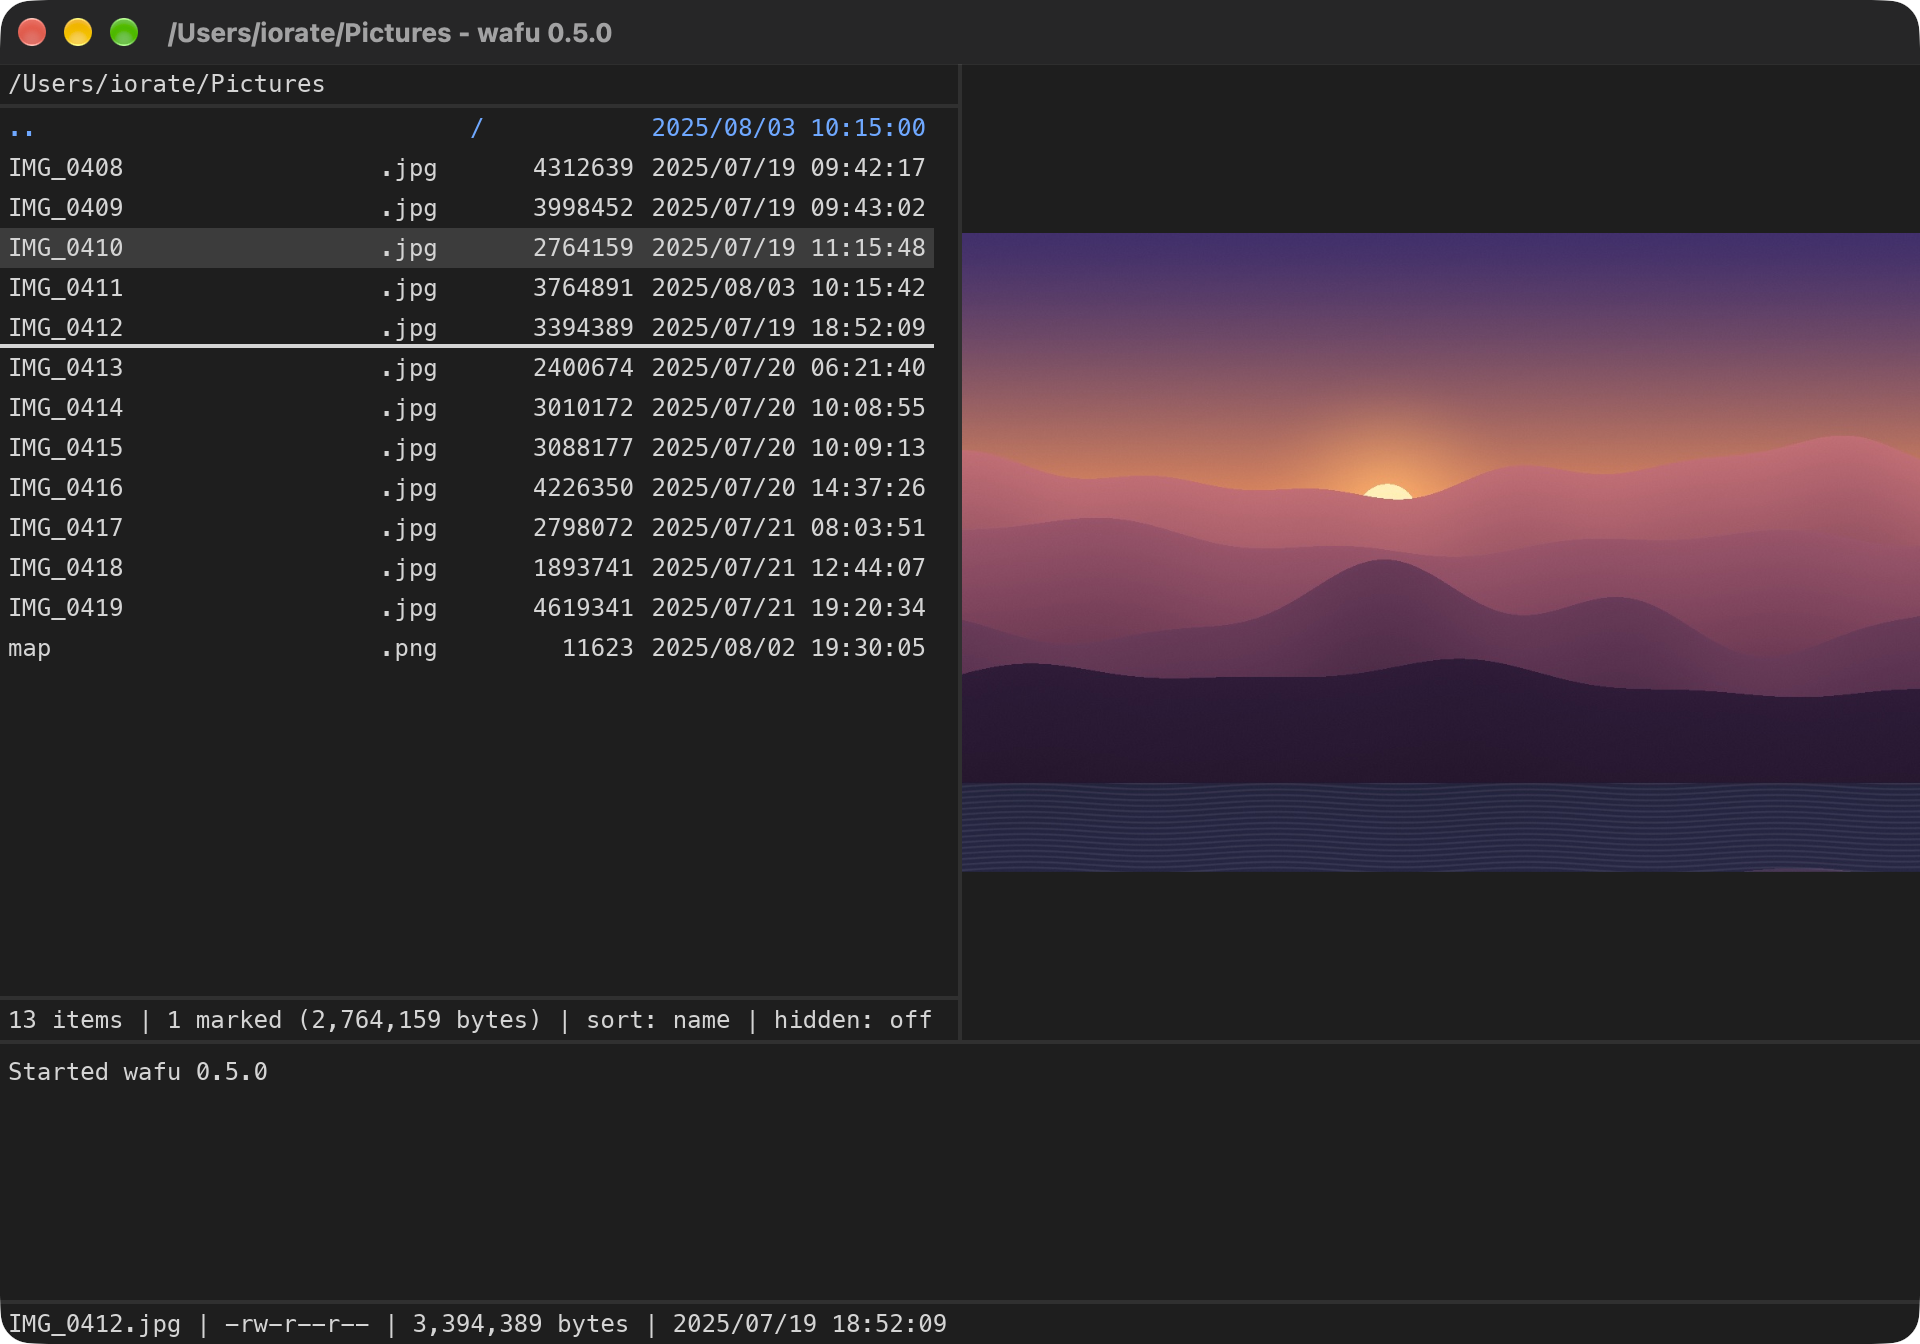
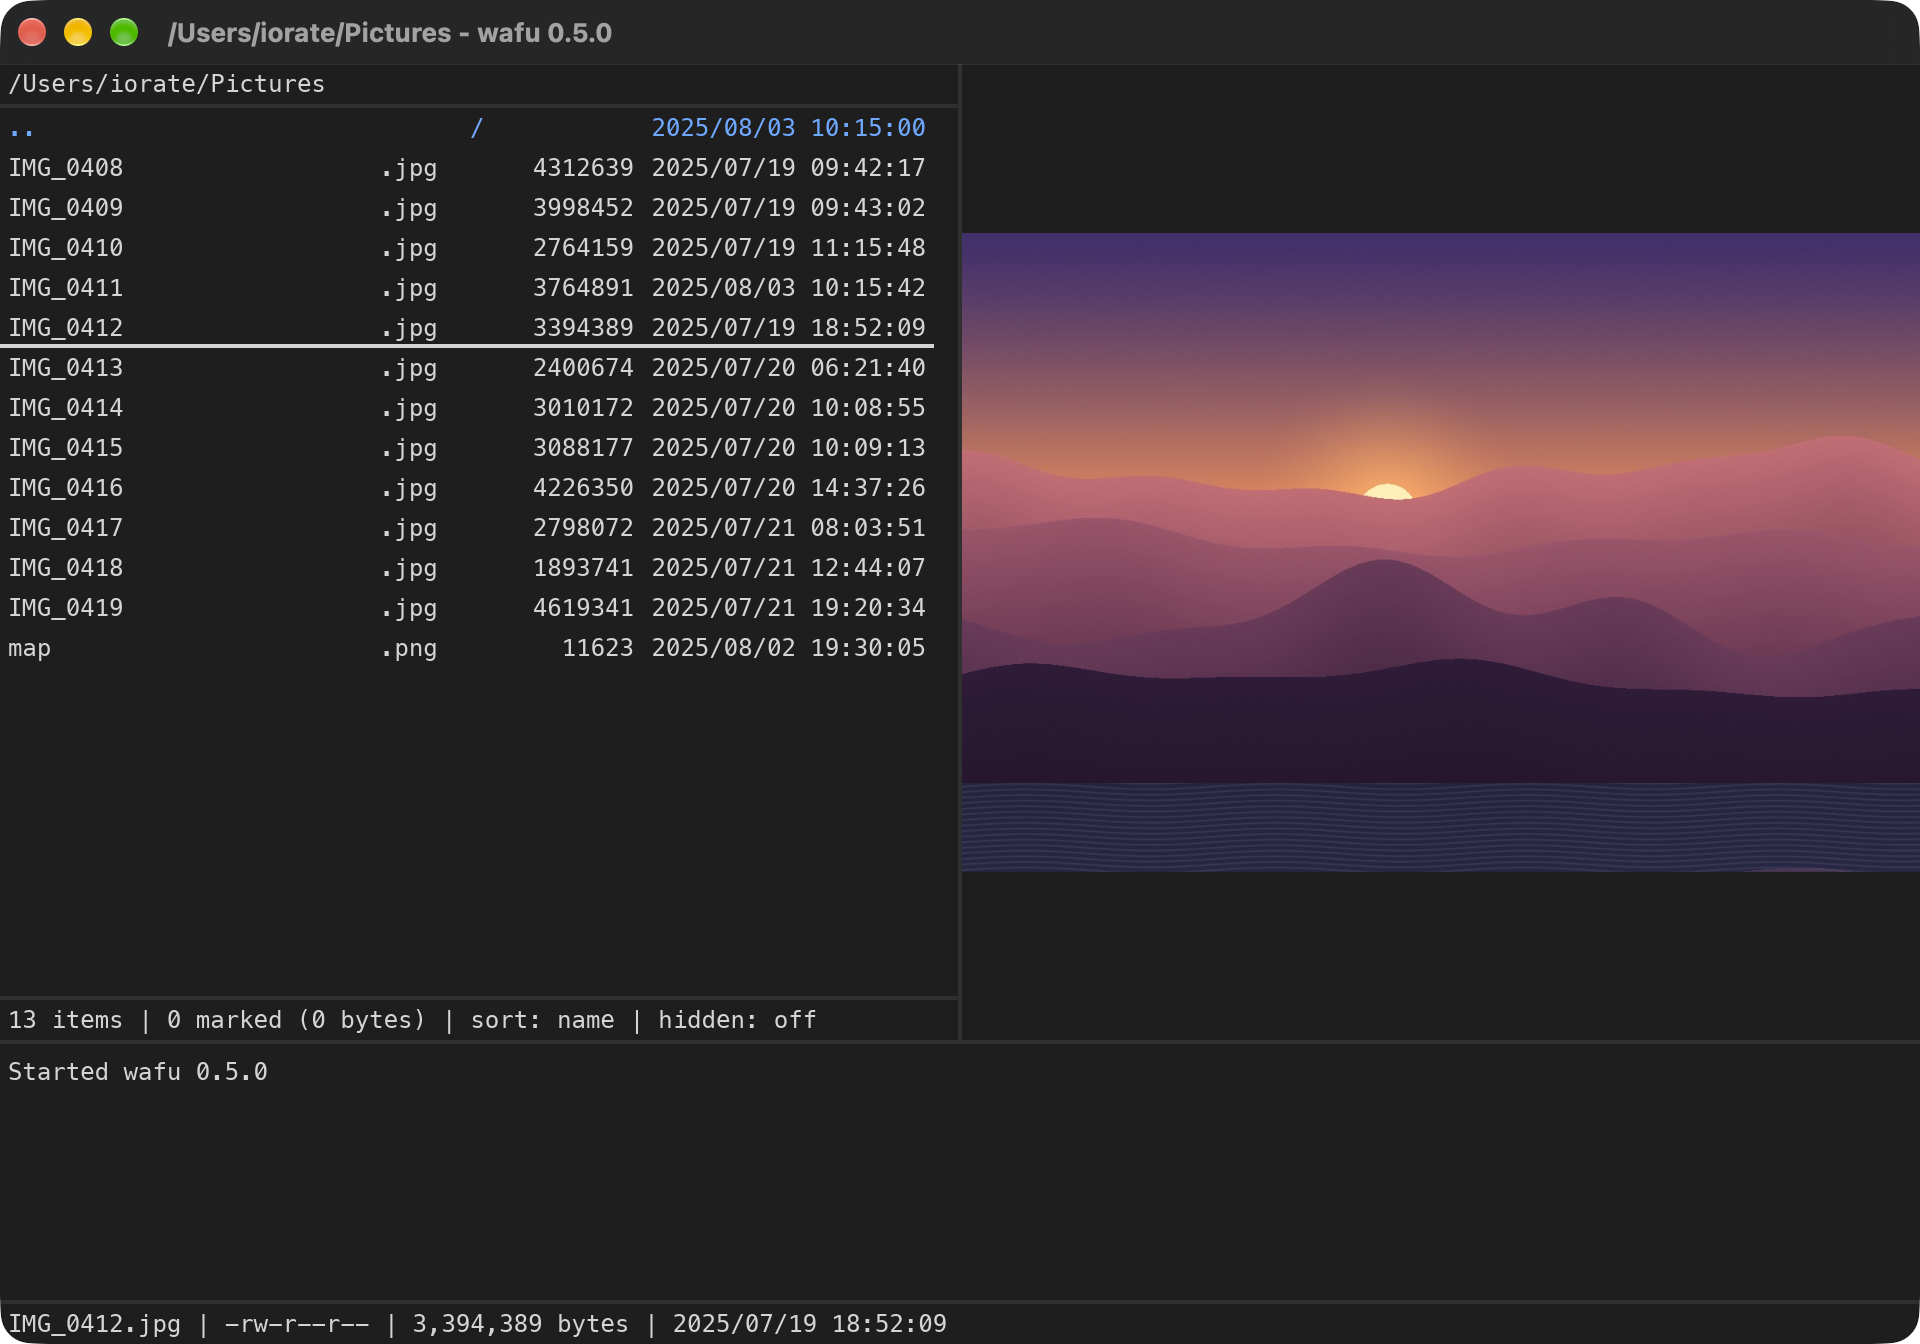
Retake the preview screenshot without a mark

Changed region(s): [[0.0, 0.1562, 0.5, 0.2188], [0.1562, 0.75, 0.375, 0.7812], [0.4062, 0.75, 0.4375, 0.7812]]

diff --git a/README.md b/README.md
@@ -15,7 +15,7 @@ A keyboard-driven dual-pane file manager for Windows, macOS, and Linux, built wi
 
 ![The template rename popup with the template kyoto_{001}{ext}, listing each marked photo's old name beside its new one, starting with IMG_0408.jpg and kyoto_001.jpg](https://raw.githubusercontent.com/iorate/wafu/main/docs/images/rename.png)
 
-![A photo of hills at sunset previewed in the right half of the window, beside the list of photos it was opened from, one of which is marked](https://raw.githubusercontent.com/iorate/wafu/main/docs/images/preview.png)
+![A photo of hills at sunset previewed in the right half of the window, beside the list of photos it was opened from](https://raw.githubusercontent.com/iorate/wafu/main/docs/images/preview.png)
 
 ## Installation
 
